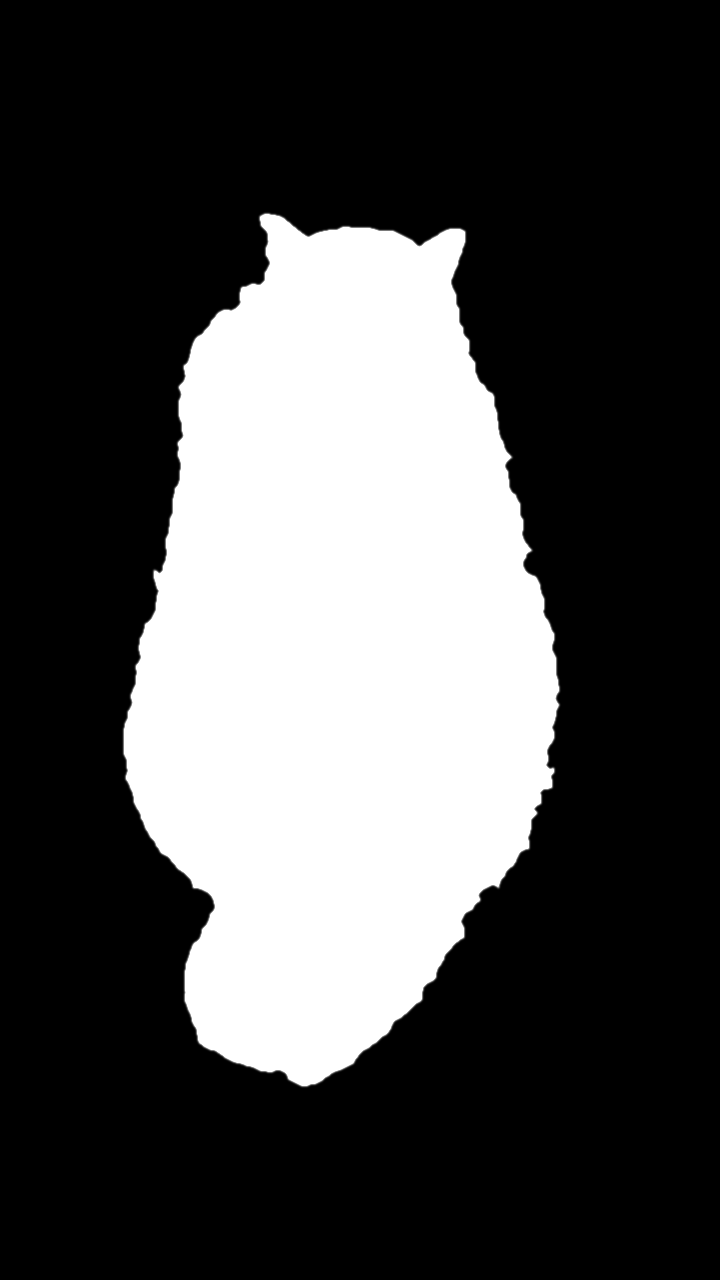
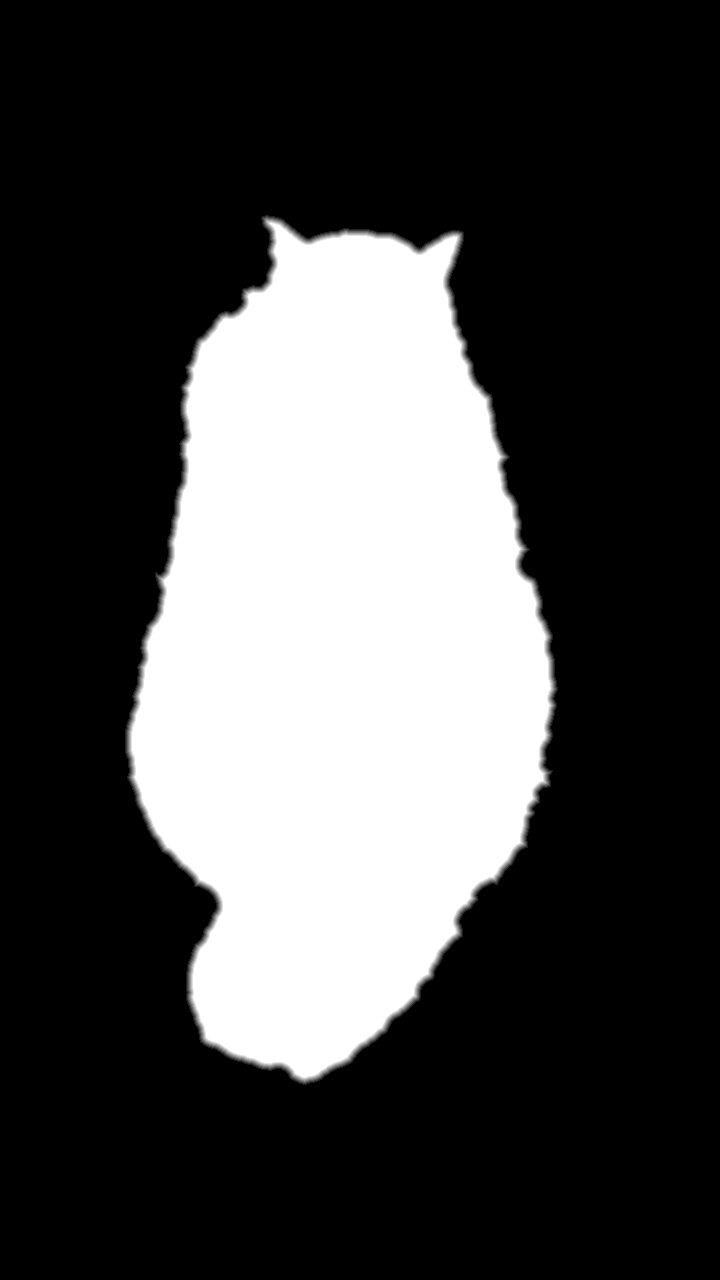
Soften the cutout and make the paywall readable
Dark mode was painting the paywall copy white on cream. The sheet now uses
ink on paper and sits at a medium height. The mask is eroded and feathered,
the contact shadow is a soft pool under the body, and the idle heart no
longer leaves a red speck on the flank.

diff --git a/PurrPat/Views/PaywallView.swift b/PurrPat/Views/PaywallView.swift
@@ -4,17 +4,23 @@ struct PaywallView: View {
     @EnvironmentObject private var purchases: PurchaseManager
     @Environment(\.dismiss) private var dismiss
 
+    private let ink = Color(red: 0.29, green: 0.18, blue: 0.12)
+    private let inkSoft = Color(red: 0.45, green: 0.32, blue: 0.22)
+    private let paper = Color(red: 0.98, green: 0.95, blue: 0.91)
+    private let button = Color(red: 0.42, green: 0.28, blue: 0.18)
+
     var body: some View {
         VStack(alignment: .leading, spacing: 22) {
             Capsule()
-                .fill(.primary.opacity(0.2))
+                .fill(ink.opacity(0.25))
                 .frame(width: 36, height: 5)
                 .frame(maxWidth: .infinity)
             Text("Purr Pat Pro")
                 .font(.largeTitle.weight(.semibold))
+                .foregroundStyle(ink)
             Text("The whole windowsill, once.")
                 .font(.title3)
-                .foregroundStyle(.secondary)
+                .foregroundStyle(inkSoft)
             VStack(alignment: .leading, spacing: 16) {
                 feature("paintpalette", "Seven more coats")
                 feature("moon.stars", "Moonlight and rain")
@@ -27,6 +33,7 @@ struct PaywallView: View {
                 Group {
                     if purchases.isBusy {
                         ProgressView()
+                            .tint(.white)
                     } else if let price = purchases.displayPrice {
                         Text(String(format: String(localized: "Unlock · %@"), price))
                     } else {
@@ -34,30 +41,34 @@ struct PaywallView: View {
                     }
                 }
                 .font(.headline)
+                .foregroundStyle(.white)
                 .frame(maxWidth: .infinity)
                 .padding(.vertical, 14)
             }
             .buttonStyle(.borderedProminent)
+            .tint(button)
             .disabled(purchases.isBusy)
             Button("Restore purchases") {
                 Task { await purchases.restore() }
             }
             .font(.subheadline)
+            .foregroundStyle(ink)
             .frame(maxWidth: .infinity)
             Text("One-time purchase. No subscription.")
                 .font(.footnote)
-                .foregroundStyle(.secondary)
+                .foregroundStyle(inkSoft)
                 .frame(maxWidth: .infinity)
             if let message = purchases.lastMessage {
                 Text(message)
                     .font(.footnote)
-                    .foregroundStyle(.secondary)
+                    .foregroundStyle(inkSoft)
                     .frame(maxWidth: .infinity)
             }
-            Spacer(minLength: 0)
         }
         .padding(24)
-        .background(Color(red: 0.98, green: 0.95, blue: 0.91))
+        .frame(maxWidth: .infinity, maxHeight: .infinity, alignment: .center)
+        .background(paper)
+        .preferredColorScheme(.light)
         .onChange(of: purchases.isPro) { _, pro in
             if pro { dismiss() }
         }
@@ -67,9 +78,11 @@ struct PaywallView: View {
         HStack(spacing: 12) {
             Image(systemName: symbol)
                 .font(.body.weight(.semibold))
+                .foregroundStyle(ink)
                 .frame(width: 28)
             Text(title)
                 .font(.body)
+                .foregroundStyle(ink)
         }
     }
 }

diff --git a/PurrPat/Views/PetScreen.swift b/PurrPat/Views/PetScreen.swift
@@ -65,8 +65,9 @@ struct PetScreen: View {
         .sheet(isPresented: $showPaywall) {
             PaywallView()
                 .environmentObject(purchases)
-                .presentationDetents([.large])
+                .presentationDetents([.medium, .large])
                 .presentationDragIndicator(.visible)
+                .preferredColorScheme(.light)
         }
     }
 
@@ -148,7 +149,8 @@ struct PetScreen: View {
 
     private func heart(in size: CGSize) -> some View {
         let point = CatLayout.point(SIMD2(0.30, 0.38), in: size, catSize: settings.catSize)
-        let opacity = max(session.purrLevel * 0.65, max(0, (session.happiness - 0.28) * 1.35))
+        let lifted = max(0, session.happiness - 0.5)
+        let opacity = max(session.purrLevel * 0.75, lifted * 1.8)
         return Image(systemName: "heart.fill")
             .font(.system(size: 18, weight: .semibold))
             .foregroundStyle(Color(red: 0.86, green: 0.34, blue: 0.38))

diff --git a/PurrPat/Render/PlateRaster.c b/PurrPat/Render/PlateRaster.c
@@ -210,14 +210,20 @@ void plate_raster(
                     fur_g += 0.96f * press * press * 0.14f;
                     fur_b += 0.88f * press * press * 0.14f;
                 }
-                alpha = smoothf2(mask_v, 0.12f, 0.62f);
-                occ = (sample_r(mask, mask_w, mask_h, u, v + 0.007f)
-                    + sample_r(mask, mask_w, mask_h, u + 0.004f, v + 0.009f)
-                    + sample_r(mask, mask_w, mask_h, u - 0.004f, v + 0.008f)) * 0.34f;
+                alpha = smoothf2(mask_v, 0.04f, 0.72f);
+                occ = sample_r(mask, mask_w, mask_h, u + 0.014f, v);
+                occ += sample_r(mask, mask_w, mask_h, u - 0.014f, v);
+                occ += sample_r(mask, mask_w, mask_h, u, v + 0.014f);
+                occ += sample_r(mask, mask_w, mask_h, u, v - 0.014f);
+                occ += sample_r(mask, mask_w, mask_h, u + 0.010f, v + 0.010f);
+                occ += sample_r(mask, mask_w, mask_h, u - 0.010f, v + 0.010f);
+                occ += sample_r(mask, mask_w, mask_h, u + 0.010f, v - 0.010f);
+                occ += sample_r(mask, mask_w, mask_h, u - 0.010f, v - 0.010f);
+                occ *= 0.125f;
                 shade = clampf(occ - alpha, 0.0f, 1.0f);
-                r *= 1.0f - shade * (night ? 0.42f : 0.26f);
-                g *= 1.0f - shade * (night ? 0.42f : 0.26f);
-                b *= 1.0f - shade * (night ? 0.42f : 0.26f);
+                r *= 1.0f - shade * 0.22f;
+                g *= 1.0f - shade * 0.22f;
+                b *= 1.0f - shade * 0.22f;
                 r = r * (1.0f - alpha) + fur_r * alpha;
                 g = g * (1.0f - alpha) + fur_g * alpha;
                 b = b * (1.0f - alpha) + fur_b * alpha;
